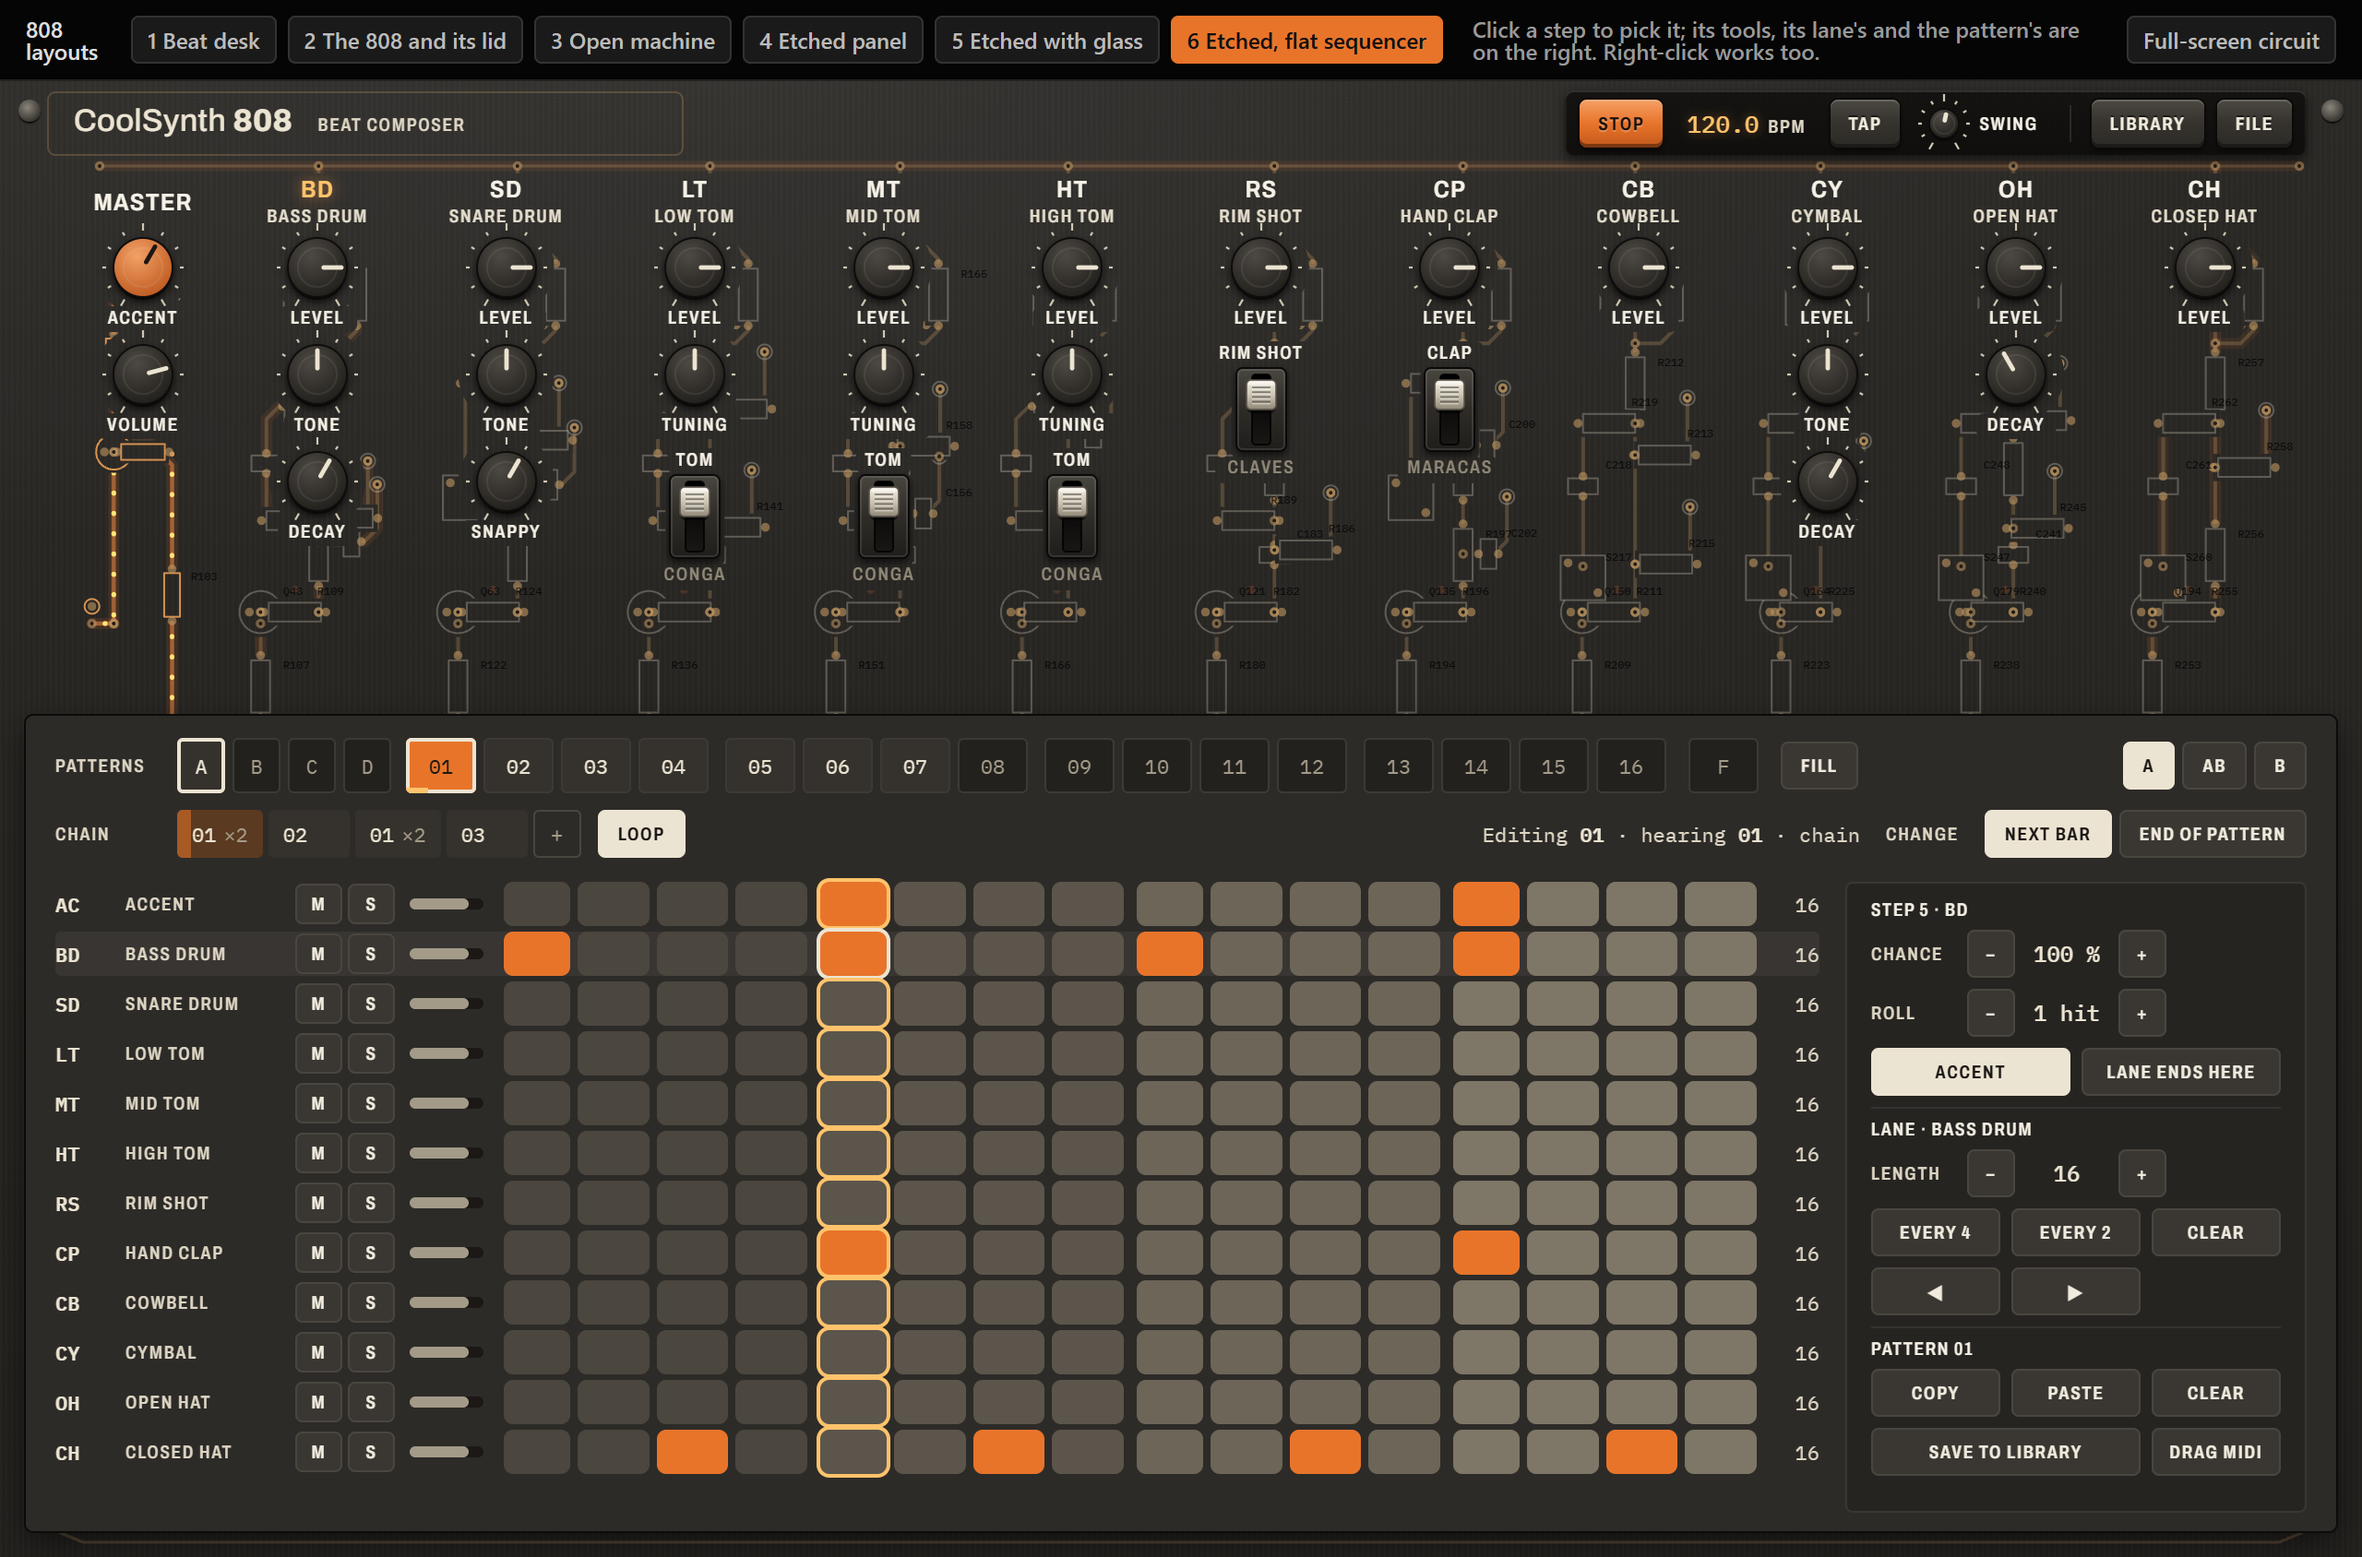
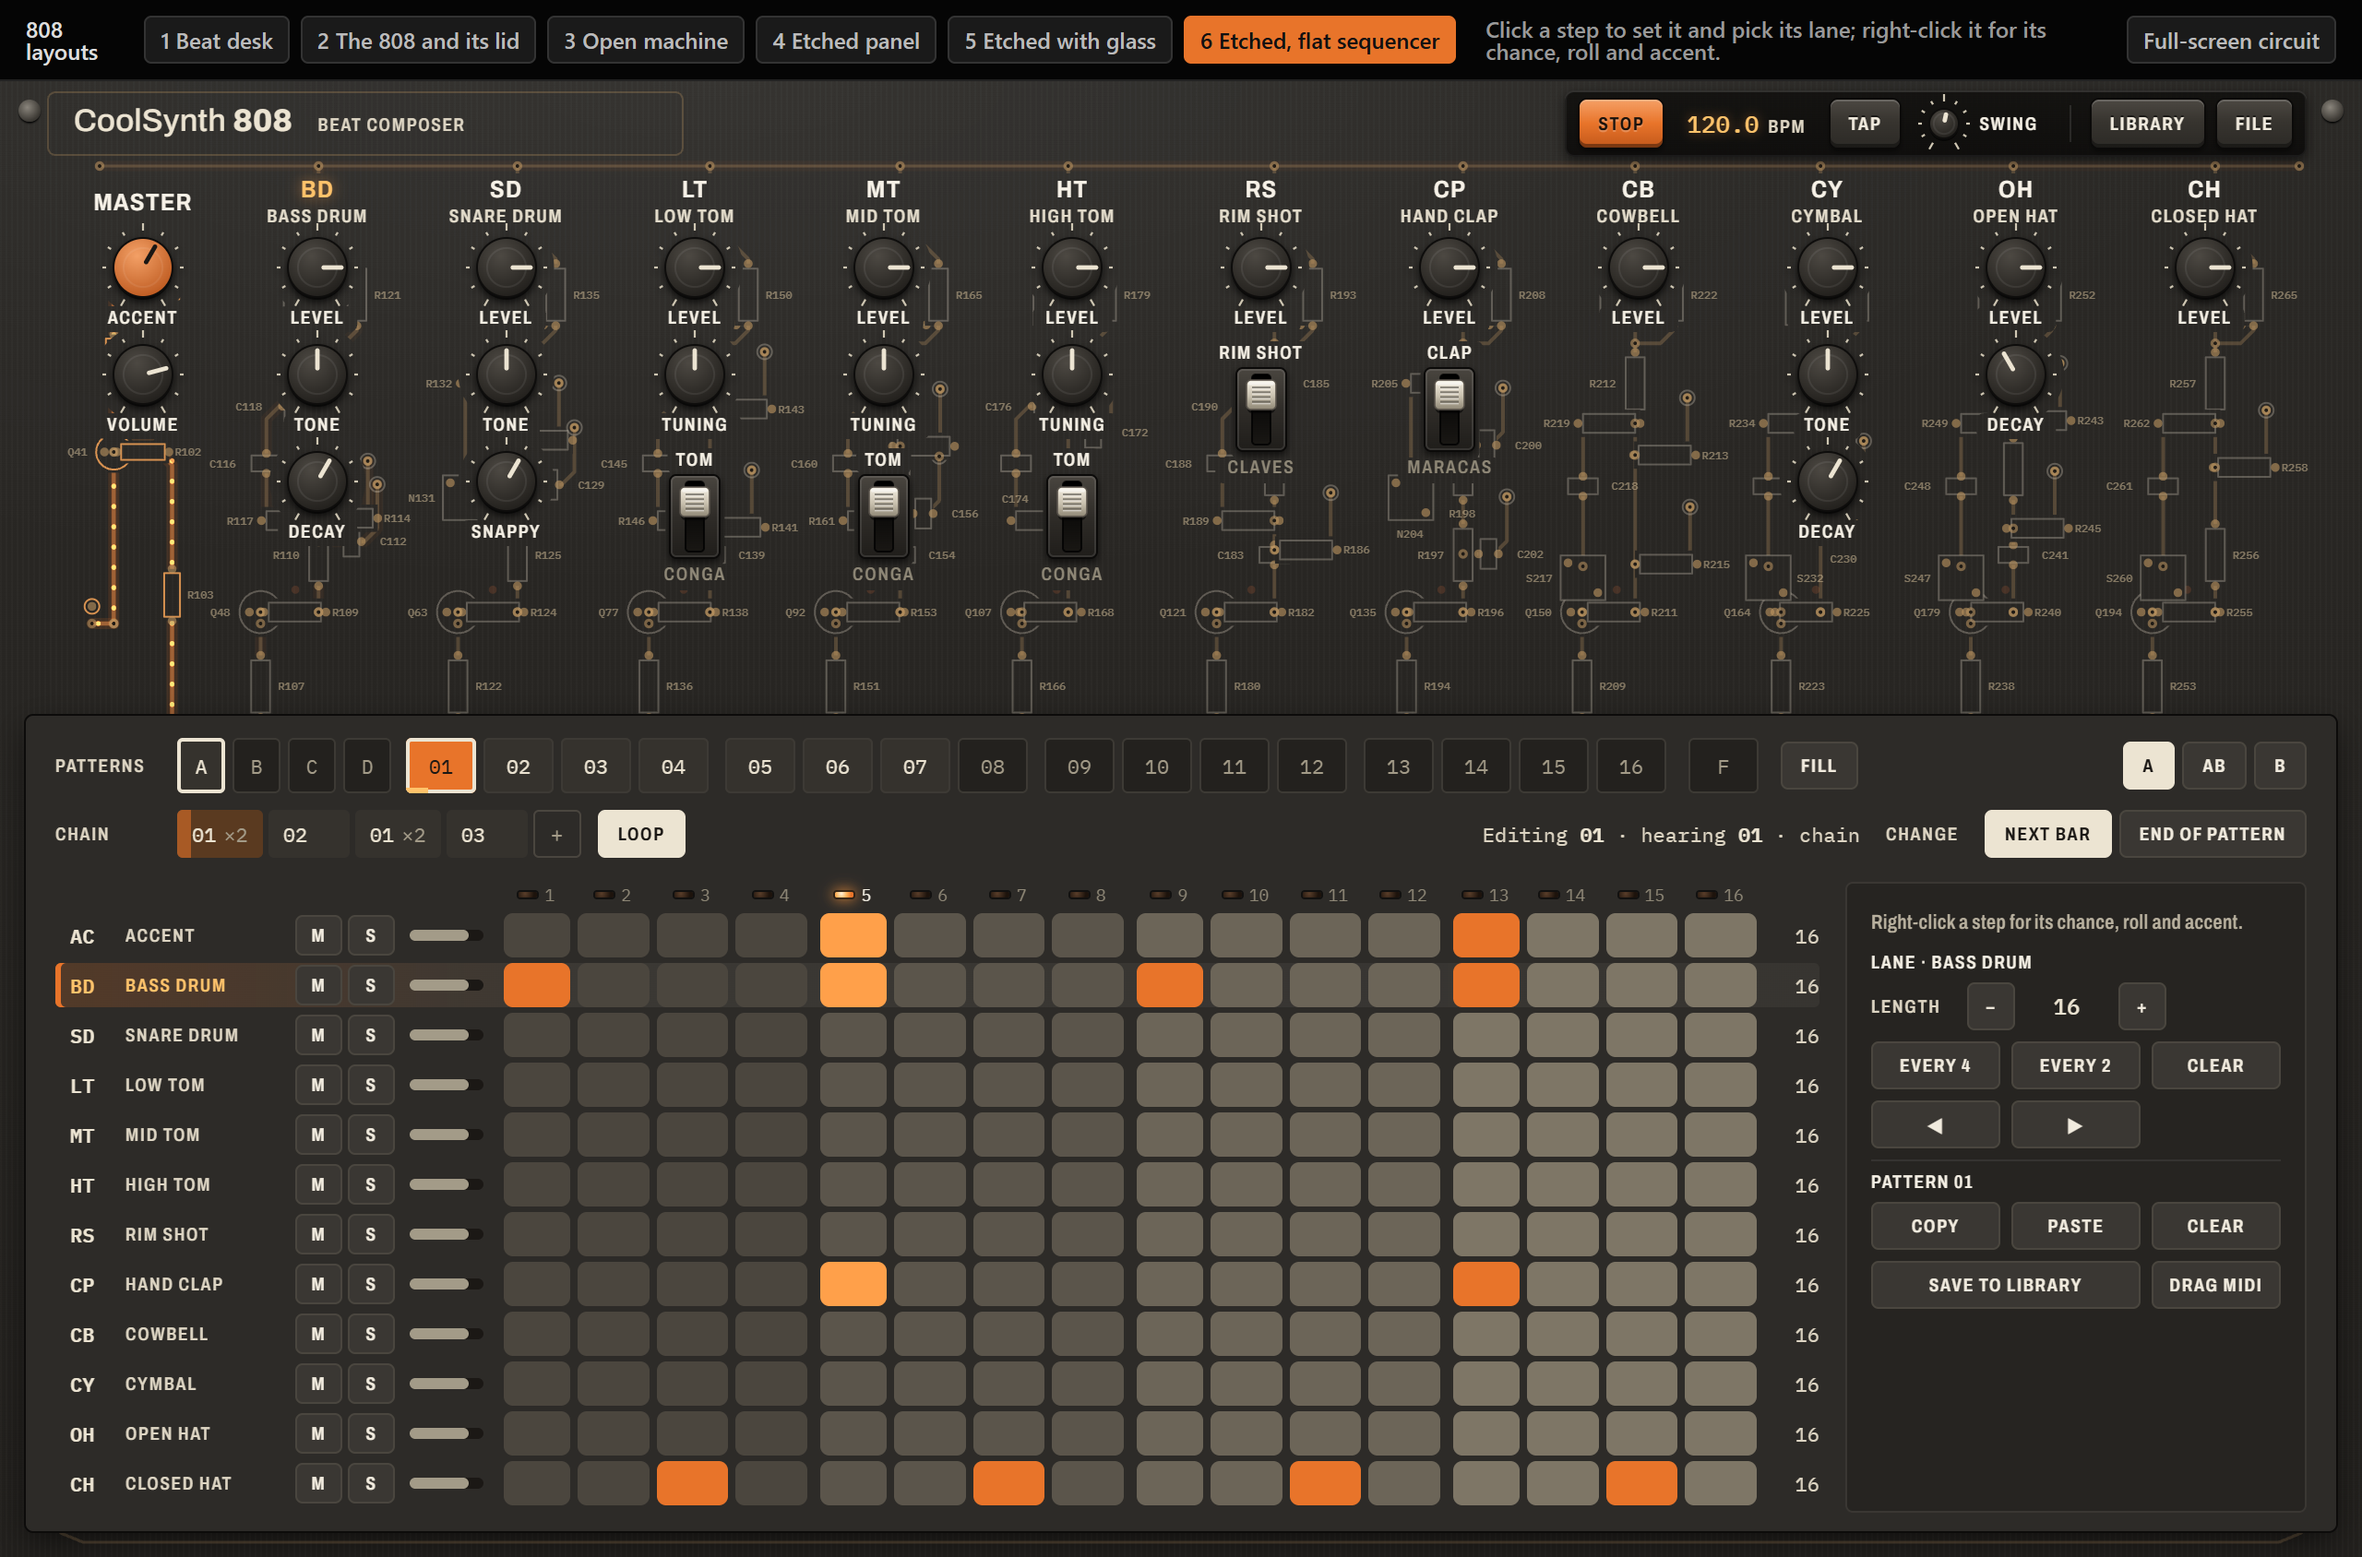
D289: CoolSynth 808, a click picks the lane, step lights replace the moving column

diff --git a/docs/design/mockups/coolsynth-808-layouts.html b/docs/design/mockups/coolsynth-808-layouts.html
@@ -47,7 +47,16 @@ button { font: inherit; color: inherit; }
 .key::before { content: ''; position: absolute; left: 50%; top: 5px; width: 36%; height: 4px; transform: translateX(-50%);
   border-radius: 2px; background: #1b1815; box-shadow: inset 0 1px 1px rgba(0,0,0,.7); }
 .key.on::before { background: var(--on); box-shadow: 0 0 7px var(--on), inset 0 0 1px var(--lit); }
-.key.ph { box-shadow: inset 0 1px 0 rgba(255,255,255,.13), 0 0 0 1px var(--lit); }
+.key.ph { box-shadow: inset 0 1px 0 rgba(255,255,255,.13), inset 0 -2px 0 rgba(0,0,0,.25), 0 1px 0 rgba(0,0,0,.6); }
+.key.ph.on::before { background: #ffd9a8; box-shadow: 0 0 10px 2px var(--flow), inset 0 0 1px #fff; }
+.key.ph.on { background: color-mix(in srgb, var(--g) 62%, #ece4d2); }
+.lhead { height: 14px; }
+.lamp { position: relative; display: flex; align-items: center; justify-content: center; gap: 4px; height: 14px; }
+.ksteps .lamp:nth-child(4n+1) { margin-left: 3px; }
+.lamp i { width: 5px; height: 5px; border-radius: 50%; background: radial-gradient(circle at 35% 30%, #5a3e2a, #1d130c 72%); box-shadow: 0 0 0 1px rgba(0,0,0,.6); }
+.lamp span { font-family: var(--mono); font-size: 9px; color: #8f8877; }
+.lamp.cur i { background: radial-gradient(circle at 35% 30%, #fff3dc, #ffb45c 42%, #e8742a 78%); box-shadow: 0 0 0 1px rgba(0,0,0,.5), 0 0 7px 1px rgba(255,150,60,.85); }
+.lamp.cur span { color: #f4efe4; }
 .key.off { opacity: .38; }
 .key.small::before { top: 4px; width: 70%; height: 4px; }
 .key.on { background: color-mix(in srgb, var(--g) 80%, #ece4d2); }
@@ -104,7 +113,9 @@ button { font: inherit; color: inherit; }
 /* Lanes */
 .lanes { display: grid; }
 .lane { display: grid; align-items: center; column-gap: 8px; border-radius: 3px; }
-.lane.sel { background: rgba(236,228,210,.06); }
+.lane.sel { background: linear-gradient(90deg, rgba(232,116,42,.20), rgba(236,228,210,.07) 30%, rgba(236,228,210,.05)); box-shadow: inset 3px 0 0 var(--on); }
+.lane.sel .id, .lane.sel .nm { color: var(--lit) !important; }
+.lane .id { padding-left: 8px; }
 .lane .id { font-family: var(--mono); font-weight: 600; font-size: 11px; color: var(--ink); cursor: pointer; }
 .lane .nm { cursor: pointer; overflow: hidden; white-space: nowrap; }
 .ms { display: flex; gap: 3px; }
@@ -257,7 +268,9 @@ canvas.board { display: block; width: 100%; height: 100%; }
 .flat6 .glass5 .key { background: var(--g); border-radius: 5px; box-shadow: none; }
 .flat6 .glass5 .key::before { content: none; }
 .flat6 .glass5 .key.on { background: var(--on); }
-.flat6 .glass5 .key.ph { box-shadow: 0 0 0 2px var(--lit); }
+.flat6 .glass5 .key.ph { box-shadow: none; }
+.flat6 .glass5 .key.ph.on { background: #ffa04a; }
+.flat6 .lamp i { border-radius: 1px; width: 10px; height: 3px; }
 .flat6 .glass5 .key.pick { box-shadow: 0 0 0 2px var(--ink); }
 .flat6 .glass5 .key.end { box-shadow: 3px 0 0 -1px var(--lit); }
 .flat6 .v5right { background: #262421; box-shadow: inset 0 0 0 1px #3a3733; }
@@ -275,6 +288,8 @@ canvas.board { display: block; width: 100%; height: 100%; }
 .etched5:not(.flat6) .cblk.cur .x { color: #3a2010; }
 .etched5:not(.flat6) .cblk.nxt { box-shadow: 0 0 0 1px #0b0a09, 0 0 0 2px var(--lit), inset 0 1px 0 rgba(255,255,255,.12); }
 .etched5:not(.flat6) .cadd { box-shadow: 0 0 0 1px #4a463f; }
+
+.thint { line-height: 1.5; padding: 10px 0 2px; color: #b9b19f !important; text-transform: none; letter-spacing: .02em; font-size: 11px; }
 
 /* Pop-ups on right-click: a step's tools, a pattern's menu */
 .pop { position: absolute; z-index: 40; min-width: 190px; padding: 10px; border-radius: 5px; display: flex; flex-direction: column; gap: 8px;
@@ -300,7 +315,7 @@ canvas.board { display: block; width: 100%; height: 100%; }
   <button class="tab" data-v="5">5 Etched with glass</button>
   <button class="tab" data-v="6">6 Etched, flat sequencer</button>
   <span id="v5opts" style="display:none;gap:6px;align-items:center;margin-left:10px">
-    <span>Click a step to pick it; its tools, its lane's and the pattern's are on the right. Right-click works too.</span>
+    <span>Click a step to set it and pick its lane; right-click it for its chance, roll and accent.</span>
   </span>
   <span class="sp"></span>
   <span class="note" id="chromeNote">Mockups: the beat runs and lights the circuits, no sound. Space plays and stops.</span>
@@ -697,6 +712,14 @@ function buildLanes(host, rowH) {
   host.className = 'lanes';
   host.style.rowGap = Math.max(2, Math.round(rowH / 7)) + 'px';
   const rows = [];
+  // The step lights: where the bar is, one light running along, as on the hardware
+  const head = el('div', 'lane lhead');
+  head.style.gridTemplateColumns = rowH >= 26 ? '30px 96px 54px 50px 1fr 30px' : '30px 84px 54px 40px 1fr 26px';
+  const lights = el('div', 'ksteps'), lamps = [];
+  for (let i = 0; i < 16; i++) { const c = el('div', 'lamp g' + (1 + (i >> 2)), `<i></i><span>${i + 1}</span>`); lamps.push(c); lights.append(c); }
+  head.append(el('span'), el('span'), el('span'), el('span'), lights, el('span'));
+  host.append(head);
+  painters.push(() => lamps.forEach((c, i) => c.classList.toggle('cur', S.playing && S.step === i)));
   DRUMS.forEach((d, l) => {
     const r = el('div', 'lane');
     r.style.gridTemplateColumns = rowH >= 26 ? '30px 96px 54px 50px 1fr 30px' : '30px 84px 54px 40px 1fr 26px';
@@ -708,7 +731,7 @@ function buildLanes(host, rowH) {
     const ks = el('div', 'ksteps'); const keys = [];
     for (let i = 0; i < 16; i++) {
       const k = el('div', 'key small g' + (1 + (i >> 2))); k.style.height = rowH + 'px';
-      k.addEventListener('click', () => { const p = shown(); p.lanes[l][i] = !p.lanes[l][i]; S.sel = l; S.selStep = { l, i }; paintAll(); });
+      k.addEventListener('click', () => { const p = shown(); p.lanes[l][i] = !p.lanes[l][i]; S.sel = l; paintAll(); });
       k.addEventListener('contextmenu', e => popover(e, p => {
         const key = `${S.editing}-${l}-${i}`, x = stepX[key] || (stepX[key] = { chance: 100, hits: 1 });
         p.append(el('div', 'lbl', `${d.id} · step ${i + 1}`));
@@ -742,7 +765,6 @@ function buildLanes(host, rowH) {
         k.classList.toggle('off', i >= p.len[l]);
         k.classList.toggle('end', i === p.len[l] - 1 && p.len[l] < 16);
         k.classList.toggle('ph', i === head);
-        k.classList.toggle('pick', !!S.selStep && S.selStep.l === l && S.selStep.i === i);
       });
     });
   });
@@ -1004,8 +1026,23 @@ class Board {
     if (s > 1.35 || P.etched || this.opts.names) {
       g.font = `500 ${P.etched ? 6 : 5.5}px 'IBM Plex Mono', monospace`; g.textAlign = 'left'; g.globalAlpha = P.etched ? .7 : Math.min(1, (s - 1.35) * 2);
       const ko = this.opts.keepouts ? this.opts.keepouts() : [];
-      const under = (x, y) => ko.some(k => k.r ? Math.hypot(x - k.x, y - k.y) < k.r + 16 : x > k.x - 26 && x < k.x + k.w + 6 && y > k.y - 6 && y < k.y + k.h + 10);
-      for (const p of this.parts) if (p.t !== 'G' && !under(p.x + p.k * .9, p.y - p.k * .7)) g.fillText(p.name, p.x + p.k * .9, p.y - p.k * .7);
+      g.fillStyle = P.etched ? 'rgba(222,200,160,.72)' : P.label; g.textBaseline = 'alphabetic';
+      // every part's box, and the boxes of the names already set: a name goes where it touches none of them
+      const box = p => { const w = (p.t === 'A' ? 1.2 : p.t === 'R' || p.t === 'P' ? 1.35 : 1) * p.k, h = (p.t === 'A' ? 1.5 : p.t === 'R' || p.t === 'P' ? .55 : 1) * p.k;
+        return p.a === 90 ? [p.x - h, p.y - w, p.x + h, p.y + w] : [p.x - w, p.y - h, p.x + w, p.y + h]; };
+      const boxes = this.parts.map(box);
+      for (const k of ko) boxes.push(k.r ? [k.x - k.r, k.y - k.r, k.x + k.r, k.y + k.r] : [k.x, k.y, k.x + k.w, k.y + k.h]);
+      const hit = r => boxes.some(b => r[0] < b[2] && r[2] > b[0] && r[1] < b[3] && r[3] > b[1]);
+      const fs = P.etched ? 6 : 5.5;
+      for (const p of this.parts) {
+        if (p.t === 'G') continue;
+        const w = p.name.length * fs * .6 + 1, [x0, y0, x1, y1] = box(p), gap = 2;
+        const spots = [[x1 + gap, (y0 + y1) / 2 + fs * .35], [x0 - gap - w, (y0 + y1) / 2 + fs * .35], [(x0 + x1) / 2 - w / 2, y0 - gap], [(x0 + x1) / 2 - w / 2, y1 + gap + fs]];
+        for (const [lx, ly] of spots) {
+          const r = [lx - .5, ly - fs, lx + w + .5, ly + 1];
+          if (!hit(r)) { g.fillText(p.name, lx, ly); boxes.push(r); break; }
+        }
+      }
       g.globalAlpha = 1;
     }
   }
@@ -1360,7 +1397,7 @@ function build5(vid) {
   const paintRight = () => {
     const p = shown(), l = S.sel, d = DRUMS[l], st = S.selStep && S.selStep.l === l ? S.selStep.i : -1;
     const xk = `${S.editing}-${l}-${st}`, x = st >= 0 ? (stepX[xk] || (stepX[xk] = { chance: 100, hits: 1 })) : null;
-    const key = [l, st, S.editing, p.len[l], x && x.chance, x && x.hits, st >= 0 && p.lanes[IDX.AC][st]].join('|');
+    const key = [l, S.editing, p.len[l]].join('|');
     if (key === lastKey) return; lastKey = key;
     right.innerHTML = '';
     const sec = title => { const s = el('div', 'tsec'); s.append(el('div', 'lbl head', title)); right.append(s); return s; };
@@ -1376,17 +1413,8 @@ function build5(vid) {
       w.append(el('span', 'lbl', label), btn('−', 'sq', () => go(-1)), show, btn('+', 'sq', () => go(1)));
       return w;
     };
-    // The step
-    const s1 = sec(st >= 0 ? `Step ${st + 1} · ${d.id}` : `Step · pick one in ${d.id}'s lane`);
-    const r1 = el('div', 'tknobs'); s1.append(r1);
-    if (st >= 0) {
-      r1.append(value('Chance', (x.chance - 5) / 95, { steps: 20, fmt: v => Math.round(v * 95 + 5) + ' %', onChange: v => { x.chance = Math.round(v * 95 + 5); }, onDone: done }));
-      r1.append(value('Roll', (x.hits - 1) / 2, { steps: 3, fmt: v => { const h = Math.round(v * 2) + 1; return h === 1 ? '1 hit' : h + ' hits'; }, onChange: v => { x.hits = Math.round(v * 2) + 1; }, onDone: done }));
-      const keys = el('div', 'tcol');
-      keys.append(btn('Accent', 'tg' + (p.lanes[IDX.AC][st] ? ' is' : ''), () => { p.lanes[IDX.AC][st] = !p.lanes[IDX.AC][st]; paintAll(); }),
-        btn('Lane ends here', '', () => { p.len[l] = st + 1; paintAll(); }));
-      r1.append(keys);
-    }
+    // A step's own settings (chance, roll, accent) are on its right-click
+    const hint = el('div', 'lbl thint', 'Right-click a step for its chance, roll and accent.'); right.append(hint);
     // The lane
     const s2 = sec(`Lane · ${d.name}`);
     const r2 = el('div', 'tknobs'); s2.append(r2);

diff --git a/DECISIONS_LOG.md b/DECISIONS_LOG.md
@@ -6272,3 +6272,17 @@ The user: make it fast enough even at some cost in accuracy, and look at how Coo
   - the circuits drawn at the window's own resolution, the buses thinner; the lanes' rows closer.
 - Asked for by the user: a sixth layout, the fifth's realistic top with the sequencer below flat, as the app has it
   now: plain chips, filled steps, value boxes instead of knobs. Both share one piece of code.
+
+## D289. CoolSynth 808: a click picks the lane, step lights replace the moving column (2026-11-24)
+
+- The user on the fifth and sixth layouts: the part names on the board were near black and printed over parts;
+  picking a single cell (it turned white) was of no clear use, a lane is what to pick; the playhead lit a whole
+  column of cells running right, which was ugly; the picked lane was hard to see.
+- So, in `docs/design/mockups/coolsynth-808-layouts.html`:
+  - the part names in a light silkscreen colour (they had taken the black of the cut-outs), each set beside its
+    part where it touches no part, name or control, or left out;
+  - a click sets the step and picks its lane; a step's chance, roll and accent stay on its right-click, and the
+    right side holds the lane's and the pattern's tools;
+  - a row of step lights above the lanes, one running along as the hardware's does; the steps that sound flash
+    where they are; no column is framed;
+  - the picked lane marked by an orange edge, a lit row and its name in orange.
